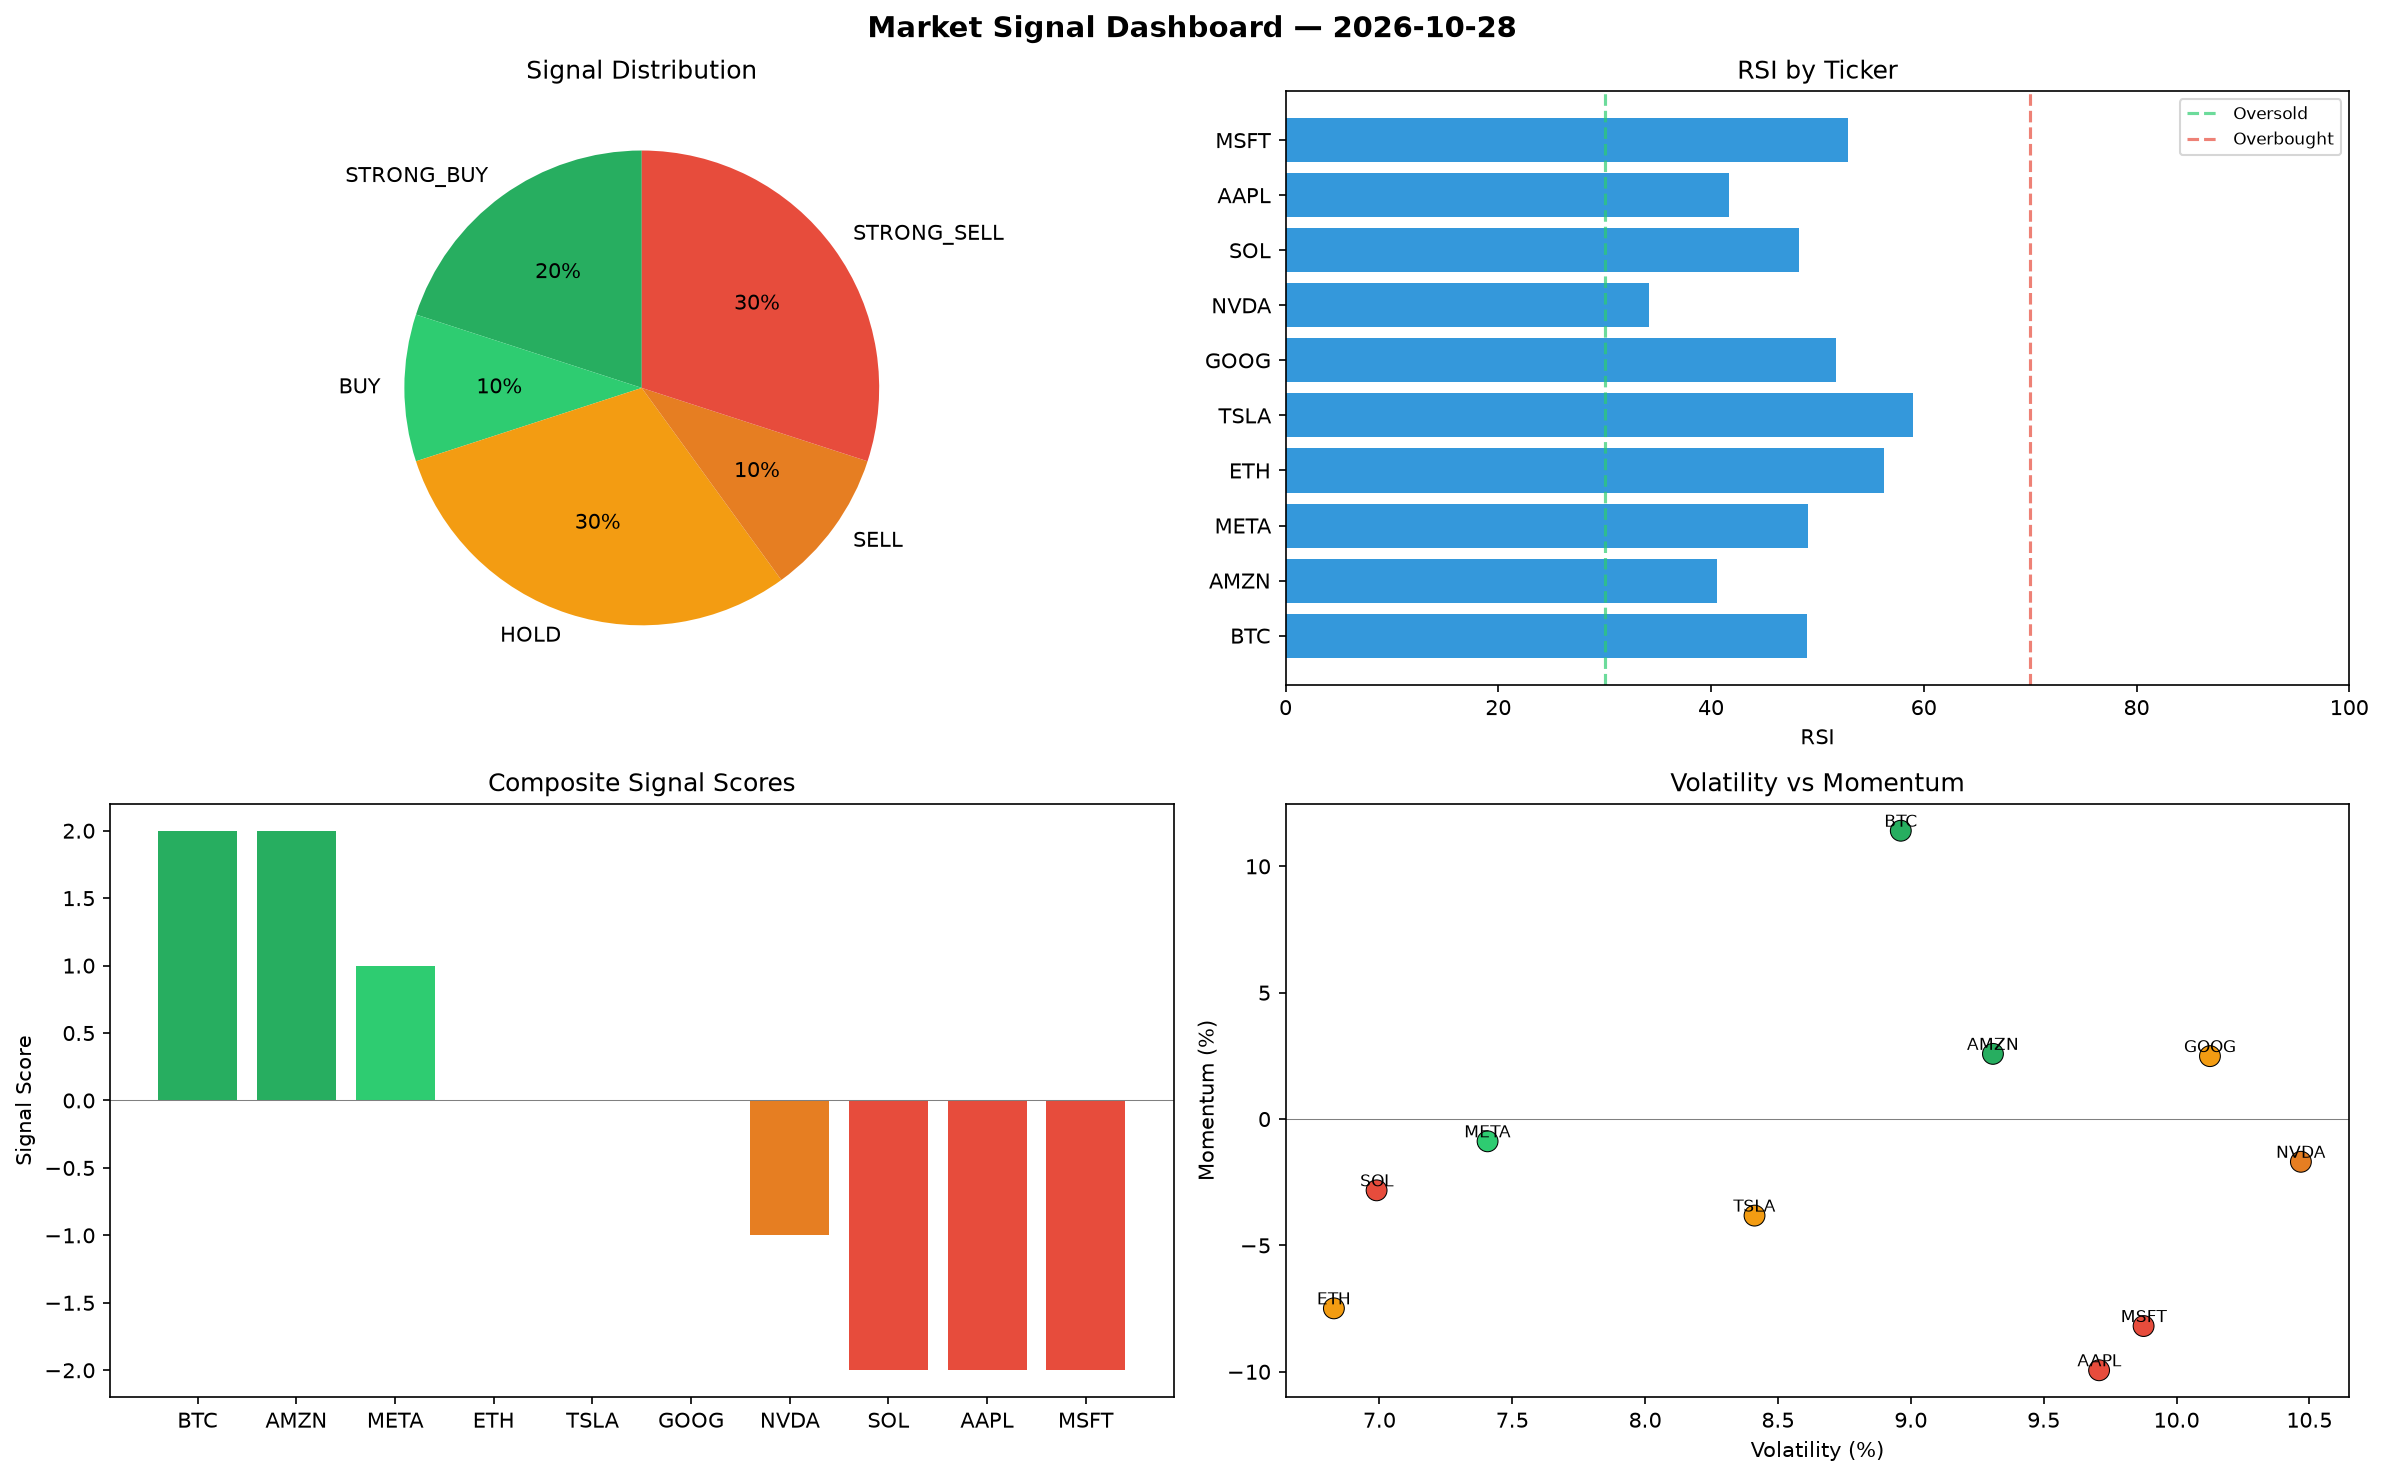
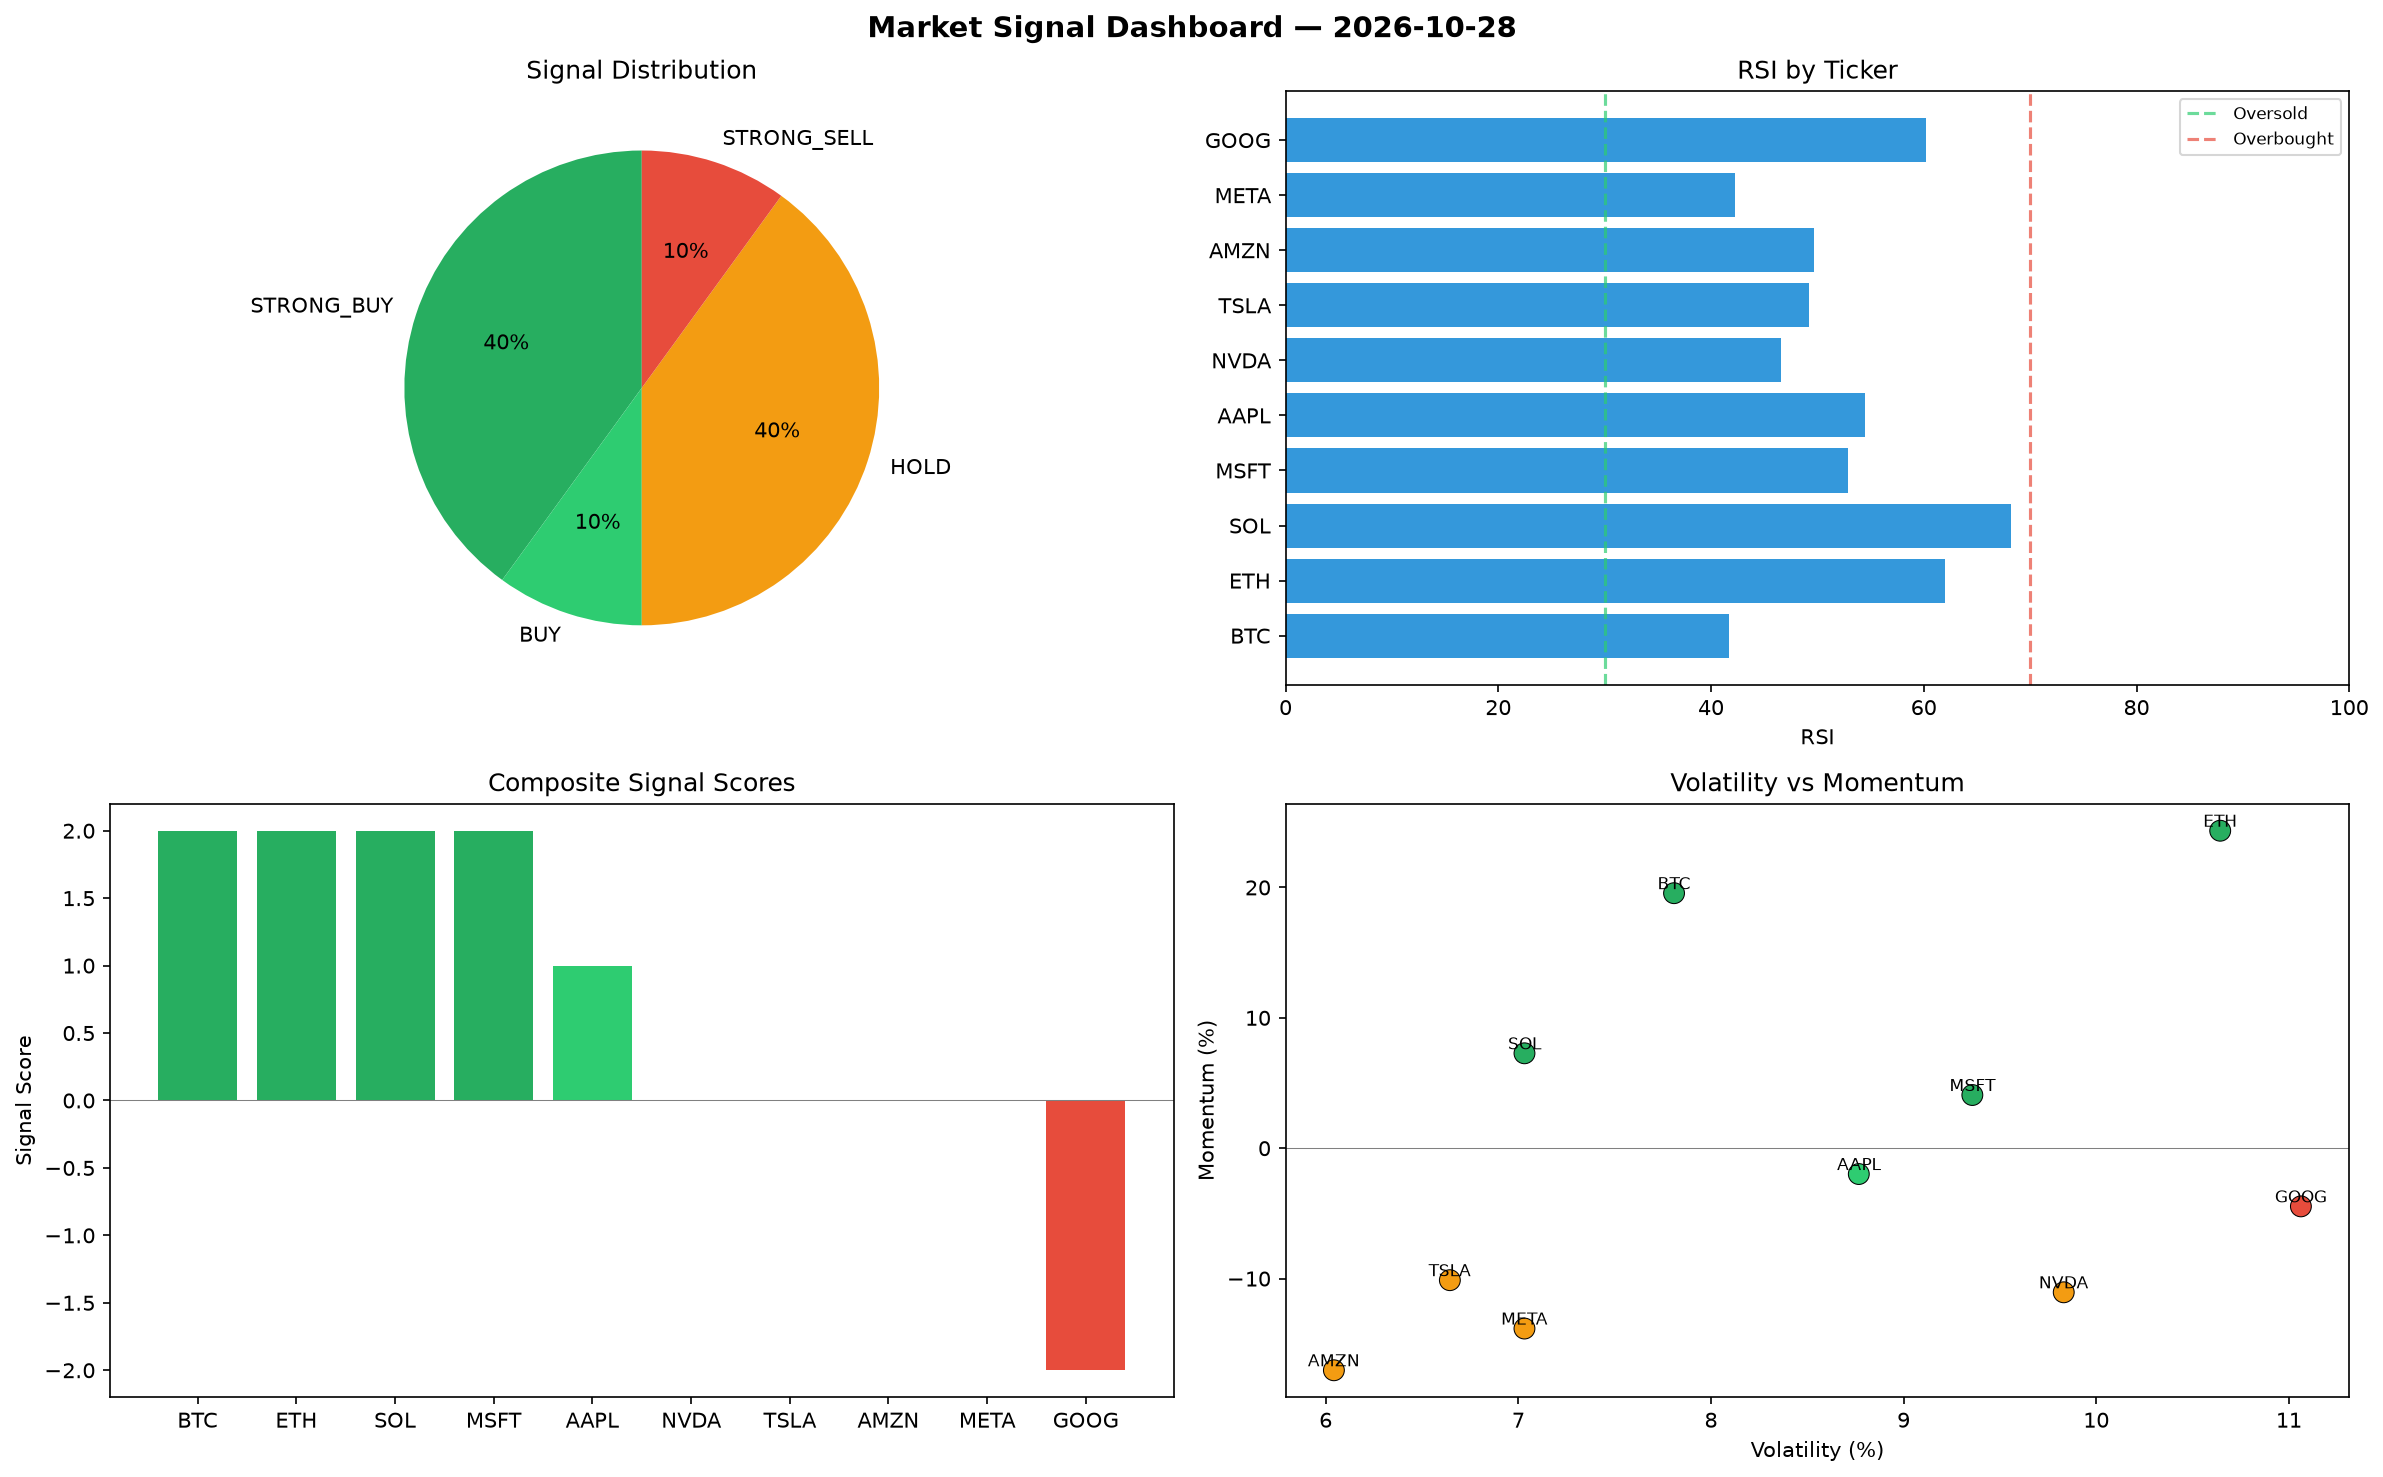
automated-bots: market signals 2026-10-28T15:16

diff --git a/logs/2026-10-28.md b/logs/2026-10-28.md
@@ -1,6 +1,6 @@
 # Market Signal Report — 2026-10-28
 
-**Run ID:** `76868d0449` | **Buy:** 3 | **Sell:** 4 | **Hold:** 3
+**Run ID:** `6a34117334` | **Buy:** 5 | **Sell:** 1 | **Hold:** 4
 
 ![Dashboard](2026-10-28_dashboard.png)
 
@@ -8,28 +8,28 @@
 
 | Ticker | Price | Signal | Score | RSI | Momentum | Confidence |
 |--------|-------|--------|-------|-----|----------|------------|
-| BTC | $2644.39 | **STRONG_BUY** | 2 | 48.98 | 0.1141 | 0.5 |
-| AMZN | $4947.07 | **STRONG_BUY** | 2 | 40.6 | 0.0258 | 0.5 |
-| META | $2562.47 | **BUY** | 1 | 49.15 | -0.0088 | 0.25 |
-| ETH | $3670.35 | **HOLD** | 0 | 56.28 | -0.0749 | 0.0 |
-| TSLA | $3967.85 | **HOLD** | 0 | 58.95 | -0.0382 | 0.0 |
-| GOOG | $138.31 | **HOLD** | 0 | 51.74 | 0.0249 | 0.0 |
-| NVDA | $3539.53 | **SELL** | -1 | 34.16 | -0.0169 | 0.25 |
-| SOL | $3870.54 | **STRONG_SELL** | -2 | 48.31 | -0.0282 | 0.5 |
-| AAPL | $2883.19 | **STRONG_SELL** | -2 | 41.68 | -0.0994 | 0.5 |
-| MSFT | $3361.72 | **STRONG_SELL** | -2 | 52.91 | -0.0819 | 0.5 |
+| BTC | $3528.07 | **STRONG_BUY** | 2 | 41.72 | 0.1956 | 0.5 |
+| ETH | $972.47 | **STRONG_BUY** | 2 | 62.0 | 0.2435 | 0.5 |
+| SOL | $4763.02 | **STRONG_BUY** | 2 | 68.24 | 0.0728 | 0.5 |
+| MSFT | $4438.79 | **STRONG_BUY** | 2 | 52.86 | 0.0408 | 0.5 |
+| AAPL | $4423.16 | **BUY** | 1 | 54.51 | -0.0198 | 0.25 |
+| NVDA | $183.28 | **HOLD** | 0 | 46.59 | -0.1105 | 0.0 |
+| TSLA | $3154.95 | **HOLD** | 0 | 49.19 | -0.1012 | 0.0 |
+| AMZN | $2938.13 | **HOLD** | 0 | 49.72 | -0.1703 | 0.0 |
+| META | $2558.6 | **HOLD** | 0 | 42.21 | -0.1383 | 0.0 |
+| GOOG | $2681.97 | **STRONG_SELL** | -2 | 60.18 | -0.0446 | 0.5 |
 
 ## Delta vs Yesterday
 
 | Ticker | Today | Yesterday | Price Change | Signal Changed |
 |--------|-------|-----------|-------------|----------------|
-| BTC | STRONG_BUY | STRONG_SELL | 📉 -39.25% | ⚠ YES |
-| AMZN | STRONG_BUY | STRONG_BUY | 📈 83.02% | — |
-| META | BUY | STRONG_SELL | 📉 -43.09% | ⚠ YES |
-| ETH | HOLD | HOLD | 📈 230.57% | — |
-| TSLA | HOLD | STRONG_BUY | 📉 -28.72% | ⚠ YES |
-| GOOG | HOLD | STRONG_SELL | 📈 219.28% | ⚠ YES |
-| NVDA | SELL | STRONG_SELL | 📉 -12.62% | ⚠ YES |
-| SOL | STRONG_SELL | HOLD | 📉 -18.71% | ⚠ YES |
-| AAPL | STRONG_SELL | STRONG_SELL | 📉 -29.68% | — |
-| MSFT | STRONG_SELL | SELL | 📈 74.11% | ⚠ YES |
+| BTC | STRONG_BUY | STRONG_SELL | 📉 -18.95% | ⚠ YES |
+| ETH | STRONG_BUY | HOLD | 📉 -12.42% | ⚠ YES |
+| SOL | STRONG_BUY | HOLD | 📈 0.03% | ⚠ YES |
+| MSFT | STRONG_BUY | SELL | 📈 129.89% | ⚠ YES |
+| AAPL | BUY | STRONG_SELL | 📈 7.87% | ⚠ YES |
+| NVDA | HOLD | STRONG_SELL | 📉 -95.48% | ⚠ YES |
+| TSLA | HOLD | STRONG_BUY | 📉 -43.32% | ⚠ YES |
+| AMZN | HOLD | STRONG_BUY | 📈 8.7% | ⚠ YES |
+| META | HOLD | STRONG_SELL | 📉 -43.18% | ⚠ YES |
+| GOOG | STRONG_SELL | STRONG_SELL | 📈 6091.07% | — |
